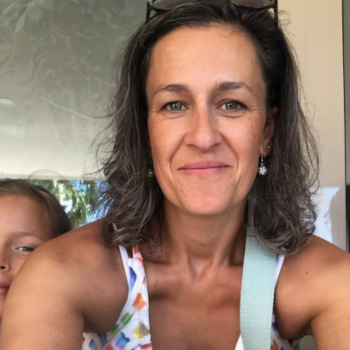
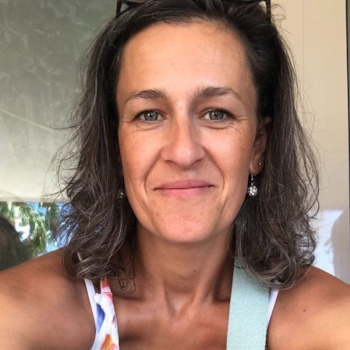
navigation hover correction, img petra correction

diff --git a/css/style.css b/css/style.css
@@ -40,7 +40,7 @@ a {
 }
 
 .link-inline {
-  color: #e89d9d;
+  color: #d45e5e;
 }
 .link-inline:hover {
   background-color: #f7e9e9;
@@ -56,7 +56,7 @@ a {
 }
 
 .highlight {
-  color: #e89d9d;
+  color: #d45e5e;
   text-decoration: none;
 }
 
@@ -86,7 +86,8 @@ a {
 .menu__box {
   display: none;
   margin: 0 auto;
-  width: 50%;
+  width: 100%;
+  padding: 10px;
 }
 .menu__item {
   display: block;
@@ -97,10 +98,15 @@ a {
   text-align: center;
   color: black;
   font-size: max(1rem, 1.7vw);
+  width: max(50%, 150px);
+  margin: auto;
+  border: 1px solid transparent;
+  border-radius: 10px;
 }
 .menu__item:hover {
-  -webkit-text-decoration: underline 1.2px;
-          text-decoration: underline 1.2px;
+  background-color: #f6dbdb;
+  border-color: #e4b3b3;
+  box-shadow: 2px 2px 5px #e4b3b3;
 }
 
 @media screen and (min-width: 610px) {
@@ -234,7 +240,7 @@ a {
   justify-self: center;
   flex-grow: 0;
   display: block;
-  color: #e89d9d;
+  color: #d45e5e;
 }
 .icon:hover {
   background-color: #f7e9e9;

diff --git a/scss/style.scss b/scss/style.scss
@@ -2,7 +2,8 @@ $c-primary: #f4d0d0;
 $c-secondary: black;
 $c-lighter: #f6dbdb;
 $c-hover-background: #f7e9e9;
-$c-dark: #e89d9d;
+$c-darker: #e4b3b3;
+$c-dark: #d45e5e;
 
 
 $shadow: 2px 2px 5px #e4b3b3;
@@ -114,7 +115,8 @@ a {
   &__box {
     display: none;
     margin: 0 auto;
-    width: 50%;
+    width: 100%;
+    padding: 10px;
   }
 
   &__item {
@@ -126,9 +128,15 @@ a {
     text-align: center;
     color: $c-secondary;
     font-size: $f-growing-s;
+    width:max(50%, 150px);
+    margin: auto;
+    border: 1px solid transparent;
+    border-radius: 10px;
 
     &:hover {
-      text-decoration: underline 1.2px;
+      background-color: $c-lighter;
+      border-color: $c-darker;
+      box-shadow: $shadow;
     }
   }
 }
